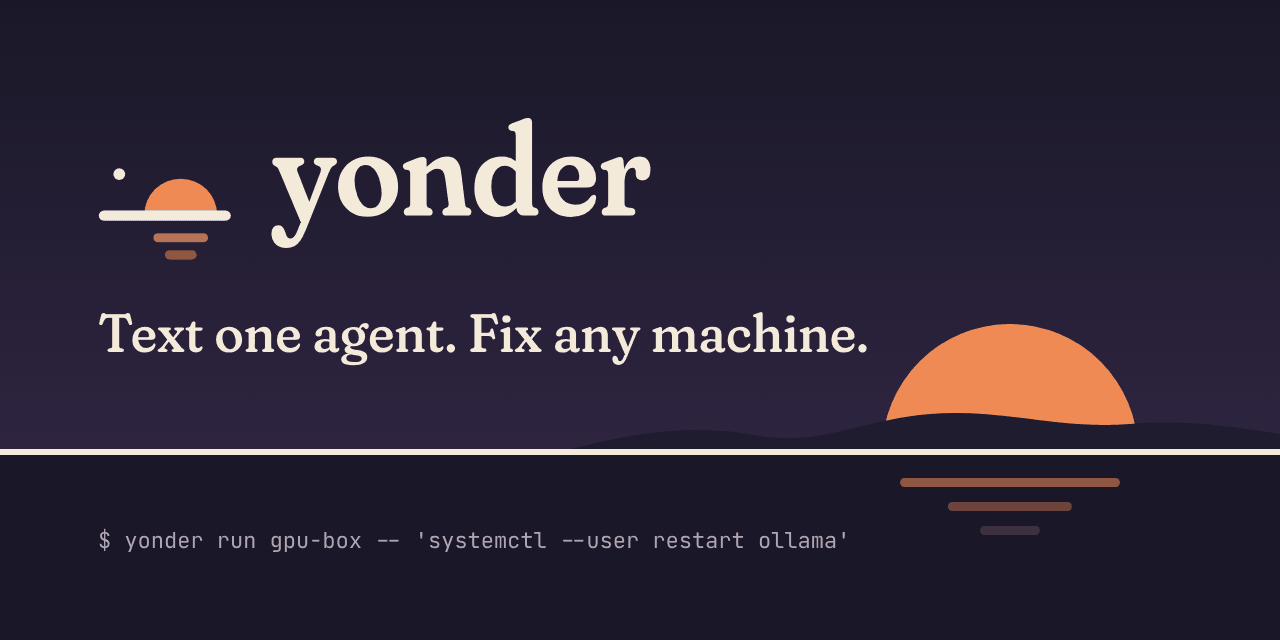
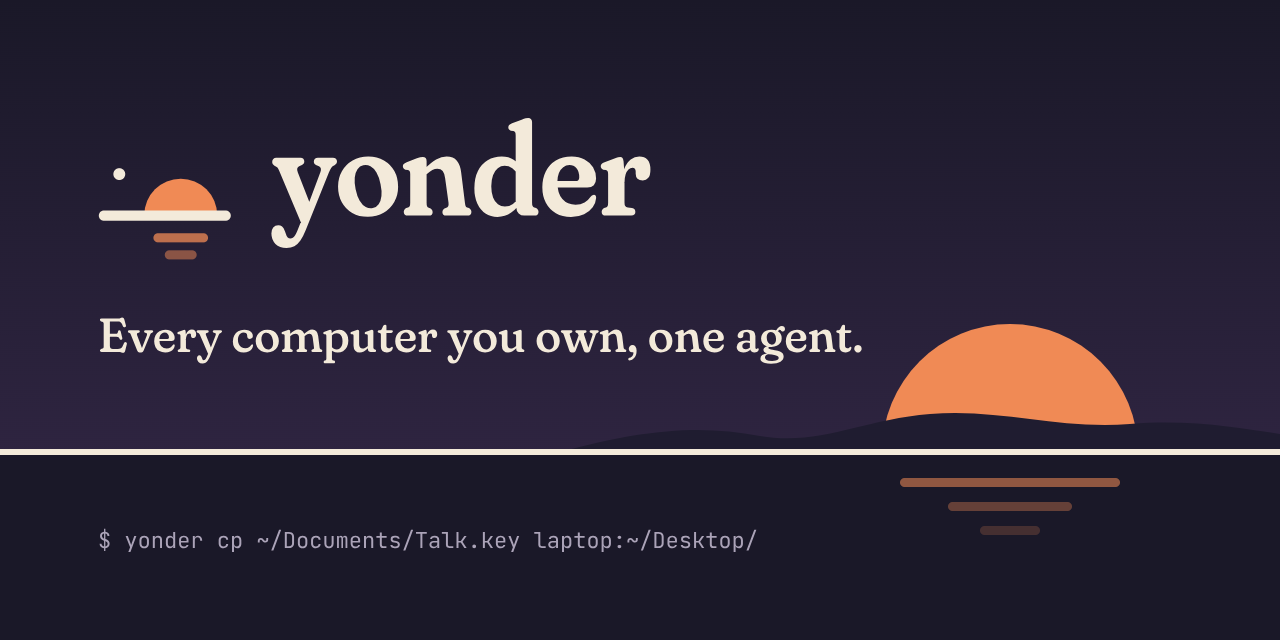
Match the README and social preview to the v8 demo
The hero alt text describes the v8 cut, the demo link says 41 seconds, and the
transcript under What it does follows the film. The social preview carries the
new tagline and the yonder cp line from the slides story, outlined in Fraunces
and JetBrains Mono like before.

diff --git a/README.md b/README.md
@@ -21,10 +21,10 @@
 **[<kbd> <br> Design <br> </kbd>](docs/design.md)**
 
 <a href="docs/demo/yonder-demo.mp4">
-  <img src="docs/demo/hero.gif" width="100%" alt="Text one agent, fix any machine. From a phone: I forgot my presentation on my Mac Mini, can you send it to my laptop? The agent on the Mac Mini runs yonder ls, sees the laptop, PC and a sleeping Raspberry Pi, copies Talk.key to the laptop with yonder cp, and starts a fine-tune on the PC because it has the free GPU. Then yonder secret setup with 1Password, a secret that prints as [HF_TOKEN], yonder log, a Homebrew install, and the skill going into Claude Code, Codex, Pi and Hermes.">
+  <img src="docs/demo/hero.gif" width="100%" alt="Every computer you own, one agent. From a phone: Shoot, I forgot to move my slides to my laptop. Can you send them over? The agent on the Mac Mini runs yonder ls, finds Talk.key and copies it to the laptop's Desktop with yonder cp, then finds the thesis code on the PC with yonder run. yonder layers shows agent config syncing, and the laptop's CLAUDE.md holds the same map of every machine. A secret from 1Password prints as [HF_TOKEN], and yonder log records it by name. Then a Homebrew install, one binary with no server and no daemon, and the skill going into Claude Code, Codex, Pi and Hermes.">
 </a>
 
-**[▶ Watch the 33-second demo, with sound](docs/demo/yonder-demo.mp4)**
+**[▶ Watch the 41-second demo, with sound](docs/demo/yonder-demo.mp4)**
 
 </div>
 
@@ -68,11 +68,15 @@ agent  $ yonder ls
        mac-mini      server   this machine    M4 · 16 GB              claude-code,hermes
        pc            desktop  online          RTX 4090 24 GB · 64 GB  -
        raspberry-pi  other    offline 2h ago  Cortex-A76 · 8 GB       -
+       layers: secrets on, agents on (yonder layers)
+
+       $ ls ~/Documents/*.key
+       /Users/me/Documents/Talk.key
 
        $ yonder cp ~/Documents/Talk.key laptop:~/Desktop/
        copied Talk.key (folder, 23 files, 18.4 MB) to laptop:/Users/me/Desktop/Talk.key
 
-       Sent. Talk.key is on your laptop's Desktop.
+       Done. Talk.key is on your laptop's Desktop.
 ```
 
 <table>
